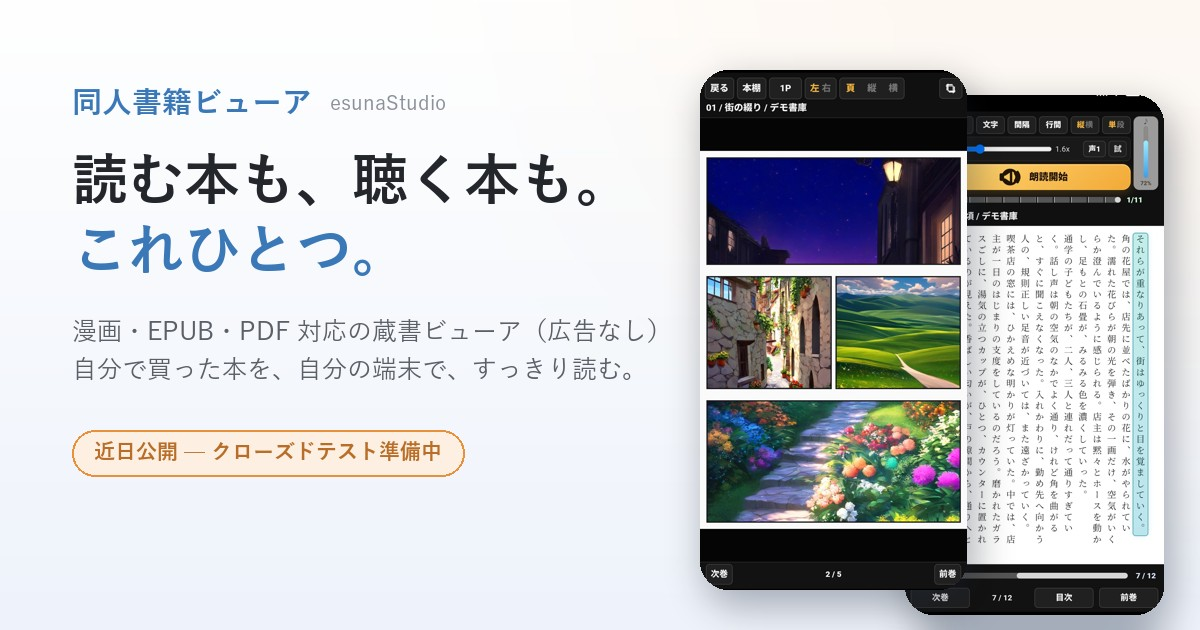
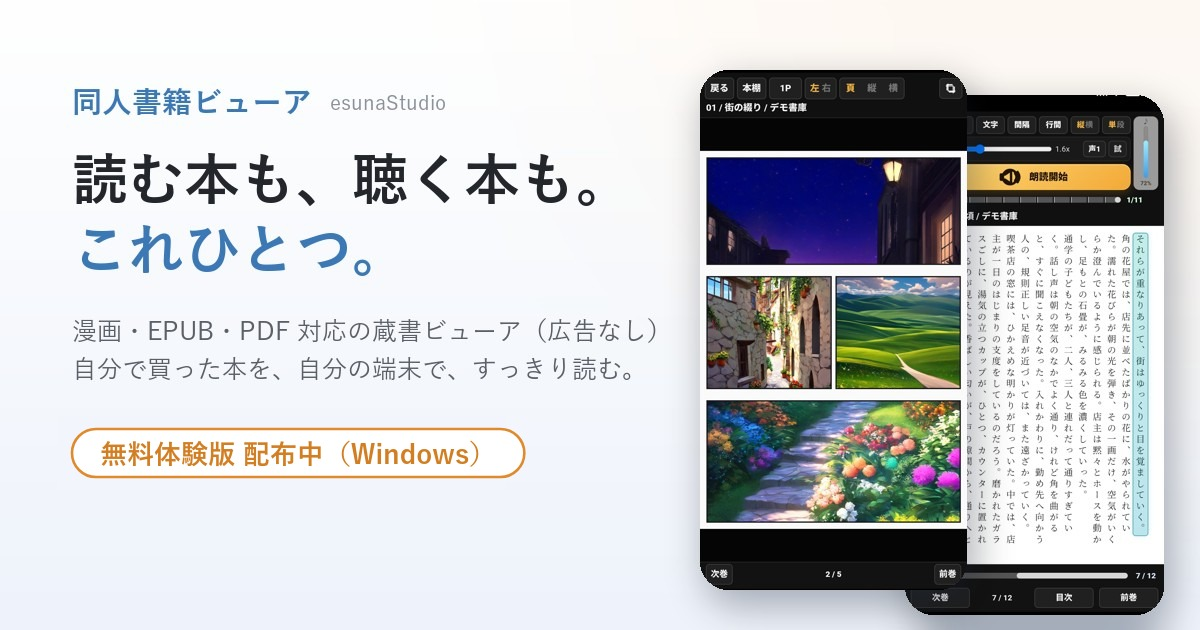
app: Windows版(PC体験版)のBOOTH配布リンク追加・近日公開表記を更新
- ヒーロー/サンプル/下部CTAにBOOTHダウンロード導線を追加
- 不具合報告・Android版テスト参加フォームのリンクを下部に追加
- meta/OGP説明文を「Windows版無料配布中/Android版は近日公開」に更新
- OGP画像を『無料体験版 配布中（Windows）』版に差し替え

Changed region(s): [[0.0617, 0.6635, 0.4317, 0.7841], [0.4317, 0.6937, 0.4625, 0.7238]]

diff --git a/app/index.html b/app/index.html
@@ -4,13 +4,13 @@
 <meta charset="UTF-8">
 <meta name="viewport" content="width=device-width, initial-scale=1.0">
 <title>同人書籍ビューア｜esunaStudio — 読む本も、聴く本も。これひとつ。</title>
-<meta name="description" content="漫画・EPUB・PDF に対応した Android 向けの蔵書ビューア（広告なし）。自分で買った同人漫画・同人小説・電子書籍を、ひとつの本棚ですっきり管理。EPUB はバックグラウンドで“聴く”朗読にも対応。現在クローズドテストに向けて準備中です。">
+<meta name="description" content="漫画・EPUB・PDF に対応した蔵書ビューア（広告なし）。自分で買った同人漫画・同人小説・電子書籍を、ひとつの本棚ですっきり管理。EPUB はバックグラウンドで“聴く”朗読にも対応。Windows版（PC体験版）を無料配布中。Android版は近日公開（クローズドテスト準備中）。">
 <link rel="canonical" href="https://esunamura.com/app/">
 <meta name="robots" content="index,follow">
 <meta property="og:type" content="website">
 <meta property="og:site_name" content="えすなむら">
 <meta property="og:title" content="同人書籍ビューア｜読む本も、聴く本も。これひとつ。">
-<meta property="og:description" content="漫画・EPUB・PDF 対応の Android 向け蔵書ビューア（広告なし）。買った本を、自分の端末ですっきり管理。EPUB は“聴く”朗読にも対応。クローズドテスト準備中。">
+<meta property="og:description" content="漫画・EPUB・PDF 対応の蔵書ビューア（広告なし）。買った本を、自分の端末ですっきり管理。EPUB は“聴く”朗読にも対応。Windows版（PC体験版）無料配布中／Android版は近日公開。">
 <meta property="og:url" content="https://esunamura.com/app/">
 <meta property="og:image" content="https://esunamura.com/app/assets/ogp.jpg">
 <meta property="og:image:width" content="1200">
@@ -18,7 +18,7 @@
 <meta property="og:locale" content="ja_JP">
 <meta name="twitter:card" content="summary_large_image">
 <meta name="twitter:title" content="同人書籍ビューア｜読む本も、聴く本も。これひとつ。">
-<meta name="twitter:description" content="漫画・EPUB・PDF 対応の Android 向け蔵書ビューア（広告なし）。買った本を、自分の端末ですっきり管理。EPUB は“聴く”朗読にも対応。クローズドテスト準備中。">
+<meta name="twitter:description" content="漫画・EPUB・PDF 対応の蔵書ビューア（広告なし）。買った本を、自分の端末ですっきり管理。EPUB は“聴く”朗読にも対応。Windows版（PC体験版）無料配布中／Android版は近日公開。">
 <meta name="twitter:image" content="https://esunamura.com/app/assets/ogp.jpg">
 <meta name="twitter:site" content="@esuna_4649">
 <link rel="icon" type="image/x-icon" href="assets/favicon.ico">
@@ -299,8 +299,11 @@
     <p>漫画もEPUBも、ひとつの本棚で。ローカルの蔵書を、すっきり整理。</p>
     <p>EPUBはバックグラウンドで“聴く”こともできます。</p>
     <p>設定はいりません。開いた、その状態がいちばん読みやすい。</p>
-    <p style="margin:16px 0 8px"><span class="soon">近日公開 — クローズドテスト準備中</span></p>
-    <a class="cta" href="https://x.com/esuna_4649/status/2066098351804920247" target="_blank" rel="noopener">開発状況をXで発信中｜フォローで公開をお知らせ</a>    <p class="small" style="margin-top:10px">※リリース時期は確定しだいXでお知らせします。</p>
+    <p style="margin:16px 0 6px"><span class="soon">Android版は近日公開 — クローズドテスト準備中</span></p>
+    <p style="margin:0 0 12px;font-weight:700">ひと足先に、Windows版（PC体験版）を無料配布中！</p>
+    <a class="cta" href="https://booth.pm/ja/items/8522856" target="_blank" rel="noopener">Windows版を無料ダウンロード（BOOTH）</a>
+    <a class="cta ghost" href="https://x.com/esuna_4649/status/2066098351804920247" target="_blank" rel="noopener">開発状況をXで見る｜フォローで公開をお知らせ</a>
+    <p class="small" style="margin-top:10px">※Windows 10 / 11対応・無料の先行Preview版。Android版のリリース時期はXでお知らせします。</p>
     <div class="hero-duo">
       <div class="phone-frame"><div class="phone-screen"><div class="phone-notch"></div><img src="assets/manga_panels.jpg" alt="漫画ビューア（コマ割りページ）"></div></div>
       <div class="phone-frame"><div class="phone-screen"><div class="phone-notch"></div><img src="assets/epub_p7.jpg" alt="EPUB書籍ビューア（縦書き本文）"></div></div>
@@ -565,10 +568,11 @@
 <section id="sample">
   <div class="wrap">
     <div class="panel">
-      <p style="margin:0 0 12px"><span class="soon">近日公開 — クローズドテスト準備中</span></p>
-      <h2>もうすぐ、あなたの本棚に。</h2>
-      <p class="lead" style="margin-bottom:18px">いまはクローズドテストの準備中です。公開時期やテスター募集の最新情報は、Xの「開発レポート」で発信中。<br>フォローしておくと、公開のお知らせが届きます。</p>
-      <a class="cta" href="https://x.com/esuna_4649/status/2066098351804920247" target="_blank" rel="noopener">開発状況をXで見る｜フォローで公開をお知らせ</a>    </div>
+      <p style="margin:0 0 12px"><span class="soon">Android版は近日公開 — クローズドテスト準備中</span></p>
+      <h2>Windows版（PC体験版）は、いま無料で試せます。</h2>
+      <p class="lead" style="margin-bottom:18px">ひと足先に、Windows版の無料PC体験版を配布中です。漫画・小説を本棚で読む使い心地を、いますぐお試しいただけます。<br>Android版の公開時期やテスター募集は、Xの「開発レポート」で発信中。フォローで公開のお知らせが届きます。</p>
+      <a class="cta" href="https://booth.pm/ja/items/8522856" target="_blank" rel="noopener">Windows版を無料ダウンロード（BOOTH）</a>
+      <a class="cta ghost" href="https://x.com/esuna_4649/status/2066098351804920247" target="_blank" rel="noopener">開発状況をXで見る｜フォローで公開をお知らせ</a>    </div>
   </div>
 </section>
 
@@ -605,15 +609,18 @@
 <section class="closing">
   <div class="wrap">
     <h2>読む本も、聴く本も。あなたの本棚を、ここに。</h2>
-    <p style="margin:12px 0 2px"><span class="soon">近日公開</span></p>
-    <a class="cta" href="https://x.com/esuna_4649/status/2066098351804920247" target="_blank" rel="noopener" style="margin-top:10px">開発状況をXで発信中｜フォローで公開をお知らせ</a>  </div>
+    <p style="margin:12px 0 8px"><span class="soon">Android版は近日公開／Windows版（PC体験版）は無料配布中</span></p>
+    <a class="cta" href="https://booth.pm/ja/items/8522856" target="_blank" rel="noopener" style="margin-top:6px">Windows版を無料ダウンロード（BOOTH）</a>
+    <a class="cta ghost" href="https://x.com/esuna_4649/status/2066098351804920247" target="_blank" rel="noopener" style="margin-top:6px">開発状況をXで見る｜フォローで公開をお知らせ</a>
+    <p class="small" style="margin-top:12px">ご意見・不具合報告・Android版テスト参加は <a href="https://docs.google.com/forms/d/e/1FAIpQLSeY3DJLreYPvc20ZeEOkn238rYq2ojWfWwEZzcprUYQXo0O8A/viewform" target="_blank" rel="noopener" style="color:var(--accent)">こちらのフォーム</a> から。</p>
+  </div>
 </section>
 
 </div><!-- /panel4 -->
 
 <footer>
   同人書籍ビューア — esunaStudio<br>
-  漫画・EPUB・PDF対応の蔵書ビューア（広告なし）／ 現在クローズドテストに向けて準備中です。<br>
+  漫画・EPUB・PDF対応の蔵書ビューア（広告なし）／ Windows版（PC体験版）無料配布中・Android版は近日公開。<br>
   最新情報は <a href="https://x.com/esuna_4649" target="_blank" rel="noopener" style="color:inherit">X（@esuna_4649）</a> にて発信中。
 </footer>
 
